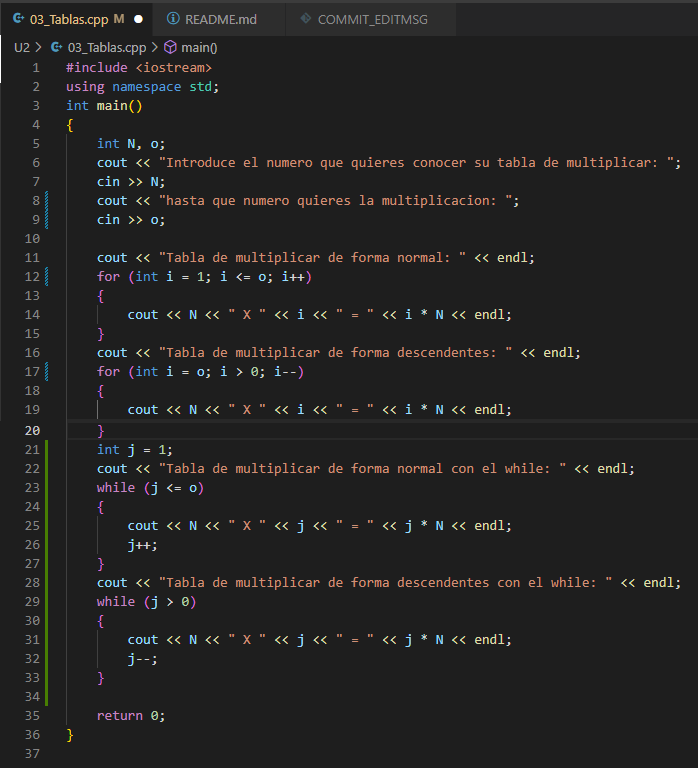
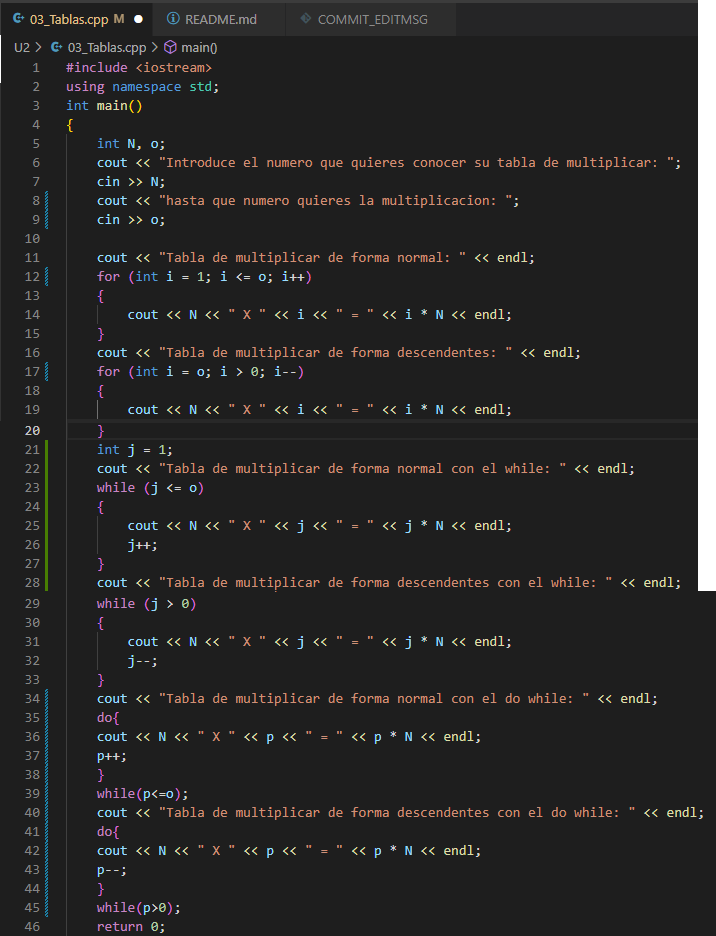
Progreso

diff --git a/U2/04_Tablademult.cpp b/U2/04_Tablademult.cpp
@@ -1,0 +1,30 @@
+#include <iostream>
+using namespace std;
+int main()
+{
+    int N, o, i = 1;
+    char opcion = 's';
+    cout << "hasta que numero quieres la multiplicacion: ";
+    cin >> o;
+    while (opcion == 's')
+    {
+        cout << "Introduce el numero que quieres conocer su tabla de multiplicar: " << endl;
+        cout << "Numero: ";
+        cin >> N;
+        do
+        {
+            cout << N << " X " << i << " = " << i * N << endl;
+            i++;
+        } while (i <= o);
+        cout << "Tabla de multiplicar de forma descendentes: " << endl;
+        do
+        {
+            cout << N << " X " << i << " = " << i * N << endl;
+            i--;
+        } while (i > 0);
+        cout << "Deseas otro <s/n>";
+        cin >> opcion;
+    }
+    cout << "....Hecho";
+    return 0;
+}

diff --git a/U2/03_Tablas.cpp b/U2/03_Tablas.cpp
@@ -2,7 +2,7 @@
 using namespace std;
 int main()
 {
-    int N, o;
+    int N, o, p = 1;
     cout << "Introduce el numero que quieres conocer su tabla de multiplicar: ";
     cin >> N;
     cout << "hasta que numero quieres la multiplicacion: ";
@@ -31,6 +31,17 @@ int main()
         cout << N << " X " << j << " = " << j * N << endl;
         j--;
     }
-
+    cout << "Tabla de multiplicar de forma normal con el do while: " << endl;
+    do
+    {
+        cout << N << " X " << p << " = " << p * N << endl;
+        p++;
+    } while (p <= o);
+    cout << "Tabla de multiplicar de forma descendentes con el do while: " << endl;
+    do
+    {
+        cout << N << " X " << p << " = " << p * N << endl;
+        p--;
+    } while (p > 0);
     return 0;
 }

diff --git a/U2/05_forfor.cpp b/U2/05_forfor.cpp
@@ -1,0 +1,20 @@
+#include <iostream>
+using namespace std;
+int main()
+{
+    int N, o, p = 1;
+    cout << "Introduce el numero que quieres conocer su tabla de multiplicar: ";
+    cin >> N;
+    cout << "hasta que numero quieres la multiplicacion: ";
+    cin >> o;
+    cout << "Tabla de multiplicar de forma normal: " << endl;
+    for (int i = 1; i <= o; i++)
+    {
+        for (int j = 1; j <= o; j++)
+        {
+            cout << endl;
+            cout << i << " X " << j << " = " << i * j << endl;
+        }
+    }
+    return 0;
+}

diff --git a/U2/README.md b/U2/README.md
@@ -117,3 +117,11 @@ https://www.google.com.mx/search?q=lluvia+de+hamburguesas+meme+policia&tbm=isch&
 <div align="center">
 <img alt="Ejecuccion" src='Imagenes/Tablascorrida.png' width='400'>
 </div>
+
+## 04_Tablademulti.cpp
+<div align="center">
+<img alt="Programa 2.4_Tablademulti.cpp" src='Imagenes/Tablademulti.png' width='400'>
+</div>
+<div align="center">
+<img alt="Ejecuccion" src='Imagenes/Tablademulti.png' width='400'>
+</div>
